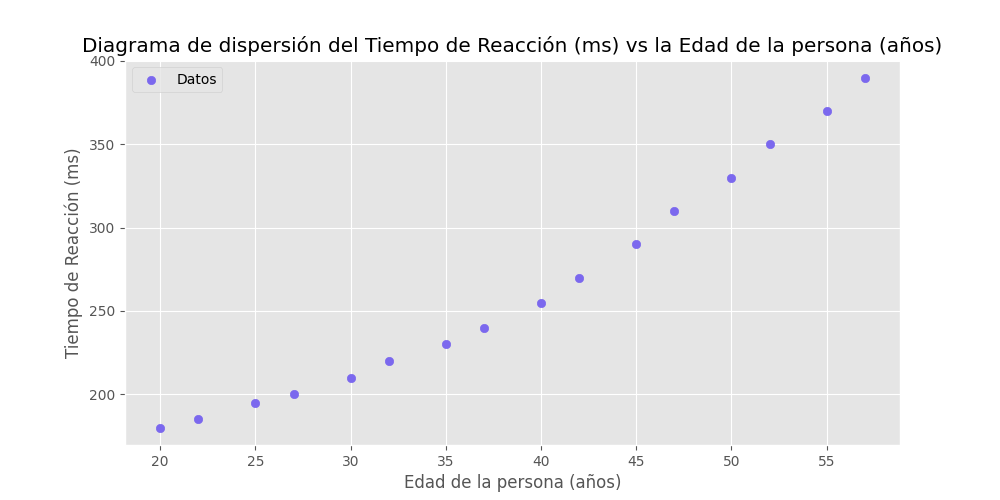
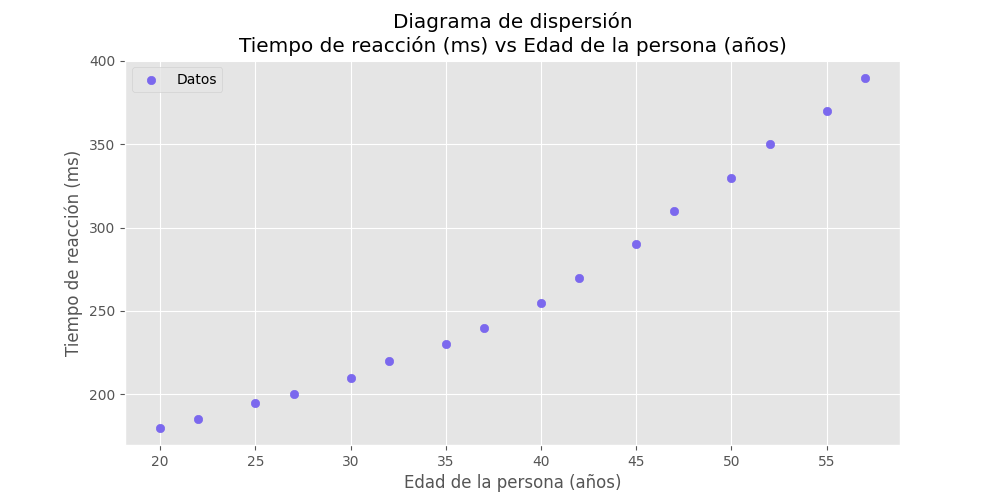
I just wanted to fix p10 and ended up restructuring everything

Changed region(s): [[0.093, 0.03, 0.93, 0.12], [0.062, 0.3, 0.093, 0.72]]

diff --git a/laboratory/p10.py b/laboratory/p10.py
@@ -8,12 +8,12 @@ from table import table
 from graphic import graphic
 from coeficiente_correlacion import calcular_coeficiente_correlacion
 
-x_arr = nparr([20, 22, 25, 27, 30, 32, 35, 37, 40,  42, 45, 47, 50, 52, 55, 57])  # edad de la persona
-y_arr = nparr([180, 185, 195, 200, 210, 220, 230, 240, 255, 270, 290, 310, 330, 350, 370, 390]) # tiempo de reacción
+x_arr = nparr([5, 10, 15, 20, 25, 30, 35, 40, 45, 50, 55, 60, 65, 70, 75, 80])   # kilómetros recorridos
+y_arr = nparr([28, 27.5, 27, 26.5, 26, 25.5, 25, 24.5, 24, 23.5, 23, 22.5, 22, 21.5, 21, 20.5])   # tiempo promedio
 
 # Variables
-var_ind = "Edad de la persona (años)"
-var_dep = "Tiempo de reacción (ms)"
+var_ind = "Kilómetros semanales recorridos"
+var_dep = "Tiempo promedio (mins)"
 titulo_diagrama = f"Diagrama de dispersión\n{var_dep} vs {var_ind}"
 
 r, conclusion = calcular_coeficiente_correlacion(x_arr, y_arr, var_ind, var_dep)

diff --git a/laboratory/p7.py b/laboratory/p7.py
@@ -12,9 +12,9 @@ x_arr = nparr([30, 60, 90, 120, 150, 180, 210, 240, 270, 300])   # uso del celul
 y_arr = nparr([10, 9.5, 9, 8.5, 8, 7.5, 7, 6.5, 6, 5.5])   # duración de la batería
 
 # Variables
-var_ind = "Tiempo de uso del Celular (mins)"
-var_dep = "Duración de la Batería (hrs)"
-titulo_diagrama = "Diagrama de dispersión de la Duración de la Batería (hrs) vs el Tiempo de uso del Celular (mins)"
+var_ind = "Tiempo de uso del celular (mins)"
+var_dep = "Duración de la batería (horas)"
+titulo_diagrama = f"Diagrama de dispersión\n{var_dep} vs {var_ind}"
 
 r, conclusion = calcular_coeficiente_correlacion(x_arr, y_arr, var_ind, var_dep)
 

diff --git a/laboratory/p4.py b/laboratory/p4.py
@@ -12,9 +12,9 @@ x_arr = nparr([1, 2, 3, 4, 5, 6, 7, 8, 9, 10])            # número de horas
 y_arr = nparr([50, 55, 65, 70, 80, 85, 90, 92, 95, 97])   # calificaciones
 
 # Variables
-var_ind = "Número de Horas dedicadas a estudiar"
-var_dep = "Calificación en un Examen"
-titulo_diagrama = "Diagrama de dispersión de la Calificación en un Examen vs el Número de horas dedicadas a estudiar"
+var_ind = "Número de horas dedicadas a estudiar"
+var_dep = "Calificación en un examen"
+titulo_diagrama = f"Diagrama de dispersión\n{var_dep} vs {var_ind}"
 
 r, conclusion = calcular_coeficiente_correlacion(x_arr, y_arr, var_ind, var_dep)
 

diff --git a/laboratory/p6.py b/laboratory/p6.py
@@ -12,9 +12,9 @@ x_arr = nparr([5, 10, 15, 20, 25, 30, 35, 40, 45, 50])   # cantidad de empleados
 y_arr = nparr([100, 200, 290, 370, 450, 530, 600, 670, 740, 800])   # producción mensual
 
 # Variables
-var_ind = "Cantidad de Empleados"
-var_dep = "Producción Mensual de una Fábrica"
-titulo_diagrama = "Diagrama de dispersión de la Producción Mensual de una Fábrica vs la Cantidad de Empleados"
+var_ind = "Cantidad de empleados"
+var_dep = "Producción mensual de una fábrica"
+titulo_diagrama = f"Diagrama de dispersión\n{var_dep} vs {var_ind}"
 
 r, conclusion = calcular_coeficiente_correlacion(x_arr, y_arr, var_ind, var_dep)
 

diff --git a/laboratory/p2.py b/laboratory/p2.py
@@ -12,9 +12,9 @@ x_arr = nparr([15, 18, 20, 22, 25, 28, 30, 32, 35, 38])   # temperatura ambienta
 y_arr = nparr([50, 70, 90, 120, 150, 180, 210, 250, 280, 320])   # cantidad de helados
 
 # Variables
-var_ind = "Temperatura Ambiental (grados C)"
-var_dep = "Cantidad de helados"
-titulo_diagrama = "Diagrama de dispersión de la Cantidad de Helados vendidos vs la Temperatura Ambiental"
+var_ind = "Temperatura ambiental (°C)"
+var_dep = "Cantidad de helados vendidos"
+titulo_diagrama = f"Diagrama de dispersión\n{var_dep} vs {var_ind}"
 
 r, conclusion = calcular_coeficiente_correlacion(x_arr, y_arr, var_ind, var_dep)
 

diff --git a/laboratory/p5.py b/laboratory/p5.py
@@ -12,9 +12,9 @@ x_arr = nparr([50, 100, 150, 200, 250, 300, 350, 400, 450, 500])   # distancia r
 y_arr = nparr([5, 10, 15, 20, 25, 30, 35, 40, 45, 50])   # combustible consumido
 
 # Variables
-var_ind = "Distancia Recorrida (km)"
-var_dep = "Combustible Consumido (litros)"
-titulo_diagrama = "Diagrama de dispersión del Combustible Consumido (litros) vs la Distancia recorrida (km)"
+var_ind = "Distancia recorrida (km)"
+var_dep = "Combustible consumido (litros)"
+titulo_diagrama = f"Diagrama de dispersión\n{var_dep} vs {var_ind}"
 
 r, conclusion = calcular_coeficiente_correlacion(x_arr, y_arr, var_ind, var_dep)
 

diff --git a/laboratory/p8.py b/laboratory/p8.py
@@ -14,7 +14,7 @@ y_arr = nparr([100, 250, 400, 600, 850, 1100, 1400, 1750, 2150, 2600])   # segui
 # Variables
 var_ind = "Número de Publicaciones"
 var_dep = "Cantidad de Seguidores Obtenidos"
-titulo_diagrama = "Diagrama de dispersión de la cantidad de Seguidores Obtenidos vs el Número de Publicaciones"
+titulo_diagrama = f"Diagrama de dispersión\n{var_dep} vs {var_ind}"
 
 r, conclusion = calcular_coeficiente_correlacion(x_arr, y_arr, var_ind, var_dep)
 

diff --git a/laboratory/p3.py b/laboratory/p3.py
@@ -14,7 +14,7 @@ y_arr = nparr([50, 55, 60, 65, 70, 75, 80, 85, 90, 95])   # peso de las personas
 # Variables
 var_ind = "Altura de las personas (cm)"
 var_dep = "Peso de las personas (kg)"
-titulo_diagrama = "Diagrama de dispersión de la Altura de las personas (cm) vs el Peso de las personas (kg)"
+titulo_diagrama = f"Diagrama de dispersión\n{var_dep} vs {var_ind}"
 
 r, conclusion = calcular_coeficiente_correlacion(x_arr, y_arr, var_ind, var_dep)
 

diff --git a/laboratory/p9.py b/laboratory/p9.py
@@ -14,7 +14,7 @@ y_arr = nparr([50, 100, 160, 220, 290, 360, 450, 540, 630, 720, 810, 900, 1000, 
 # Variables
 var_ind = "Dinero Invertido en Publicidad"
 var_dep = "Ventas Mensuales"
-titulo_diagrama = "Diagrama de dispersión de las Ventas mensuales vs el Dinero Invertido en Publicidad"
+titulo_diagrama = f"Diagrama de dispersión\n{var_dep} vs {var_ind}"
 
 r, conclusion = calcular_coeficiente_correlacion(x_arr, y_arr, var_ind, var_dep)
 

diff --git a/laboratory/template.py b/laboratory/template.py
@@ -14,7 +14,7 @@ y_arr = nparr([])   # variable dependiente
 # Variables
 var_ind = ""
 var_dep = ""
-titulo_diagrama = "Diagrama de dispersión "
+titulo_diagrama = f"Diagrama de dispersión\n{var_dep} vs {var_ind}"
 
 r, conclusion = calcular_coeficiente_correlacion(x_arr, y_arr, var_ind, var_dep)
 
